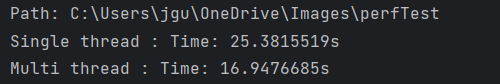
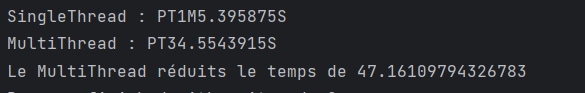
refacto code et add percent

diff --git a/src/Resizer.java b/src/Resizer.java
@@ -34,51 +34,46 @@ public class Resizer {
 
         this.files = f.listFiles(filter);
     }
-    public String singleThreadResize() {
-        createDir("singleThread");
+
+    private void resize(File file){
+        try {
+            BufferedImage image = ImageIO.read(file);
+            BufferedImage resizedImage = new BufferedImage(100, 100, BufferedImage.TYPE_INT_RGB);
+            Graphics2D g = resizedImage.createGraphics();
+            g.drawImage(image, 0, 0, 100, 100, null);
+            g.dispose();
+            ImageIO.write(resizedImage, "jpg", new File(path+"\\singleThread\\" + file.getName()));
+        } catch (IOException e) {
+            e.printStackTrace();
+        }
+    }
+
+    public Duration singleThreadResize() {
+        this.createDir("singleThread");
         Instant start = Instant.now();
         for (File file : this.files) {
-            try {
-                BufferedImage image = ImageIO.read(file);
-                BufferedImage resizedImage = new BufferedImage(100, 100, BufferedImage.TYPE_INT_RGB);
-                Graphics2D g = resizedImage.createGraphics();
-                g.drawImage(image, 0, 0, 100, 100, null);
-                g.dispose();
-                ImageIO.write(resizedImage, "jpg", new File(path+"\\singleThread\\" + file.getName()));
-            } catch (IOException e) {
-                e.printStackTrace();
-            }
+            resize(file);
         }
         Instant end = Instant.now();
-        removeDir("singleThread");
-        return String.valueOf(Duration.between(start, end));
+        this.removeDir("singleThread");
+        return Duration.between(start, end);
     }
-    public String multiThreadResize() {
-        createDir("multiThread");
+    public Duration multiThreadResize() {
+        this.createDir("multiThread");
         Instant start = Instant.now();
 
         List<File> filesList = List.of(this.files);
 
-        filesList.parallelStream().forEach(file -> {
-            try {
-                BufferedImage image = ImageIO.read(file);
-                BufferedImage resizedImage = new BufferedImage(100, 100, BufferedImage.TYPE_INT_RGB);
-                Graphics2D g = resizedImage.createGraphics();
-                g.drawImage(image, 0, 0, 100, 100, null);
-                g.dispose();
-                ImageIO.write(resizedImage, "jpg", new File(path+"\\multiThread\\" + file.getName()));
-            } catch (IOException e) {
-                e.printStackTrace();
-            }
-        });
+        filesList.parallelStream().forEach(this::resize);
 
         Instant end = Instant.now();
-        removeDir("multiThread");
-        return String.valueOf(Duration.between(start, end));
+        this.removeDir("multiThread");
+        return Duration.between(start, end);
     }
 
     private void createDir(String dirName){
         File theDir = new File(this.path+"\\"+dirName);
+        System.out.println("Create dir : " + theDir.getAbsolutePath());
         if (!theDir.exists()){
             theDir.mkdirs();
         }
@@ -86,6 +81,7 @@ public class Resizer {
 
     private void removeDir(String dirName){
         File theDir = new File(this.path+"\\"+dirName);
+        System.out.println("Remove dir : " + theDir.getAbsolutePath());
         if (theDir.exists()){
             theDir.delete();
         }

diff --git a/src/Main.java b/src/Main.java
@@ -9,43 +9,22 @@ public class Main {
         System.out.printf("Start \n");
         String[] filesTypes = {".jpg", ".png"};
         Resizer resizer = new Resizer("C:\\Users\\jgu\\OneDrive\\Images\\perfTest", filesTypes);
-        String resultSingleThread = resizer.singleThreadResize();
-        String resultMultiThread = resizer.multiThreadResize();
+        Duration resultSingleThread = resizer.singleThreadResize();
+        Duration resultMultiThread = resizer.multiThreadResize();
 
-        printDuration("SingleThread : ", resultSingleThread);
-        printDuration("MultiThread : ", resultMultiThread);
 
-        calculateDurationDifference(resultSingleThread, resultMultiThread);
+        System.out.println("SingleThread : "+ resultSingleThread.toString());
+        System.out.println("MultiThread : "+ resultMultiThread.toString());
+
+        double reduction = calculateDurationDifference(resultSingleThread, resultMultiThread);
+        System.out.printf("Le MultiThread réduits le temps de %s", reduction);
     }
 
-    // Méthode pour afficher la durée d'exécution de la méthode de redimensionnement
-    public static void printDuration(String context,String duration) {
-        String regex = "^PT(\\d+\\.\\d+)S$";
-        Pattern pattern = Pattern.compile(regex);
-        Matcher matcher = pattern.matcher(duration);
+    public static double calculateDurationDifference(Duration duration1, Duration duration2) {
+        // Calculate the difference between the two durations
+        Duration difference = duration1.minus(duration2);
 
-        if (matcher.matches()) {
-            double time = Double.parseDouble(matcher.group(1));
-            String output = String.format("Time: %,.7fs", time).replace(',', '.');
-            System.out.println(context+output);
-        } else {
-            System.out.println("Invalid duration string.");
-        }
-    }
-
-    public static void calculateDurationDifference(String bigDuration, String smallDuration) {
-        // Parse the big and small durations into seconds
-        double bigSeconds = Double.parseDouble(bigDuration.substring(2, bigDuration.length() - 1));
-        double smallSeconds = Double.parseDouble(smallDuration.substring(2, smallDuration.length() - 1));
-
-        // Calculate the difference in seconds
-        double difference = bigSeconds - smallSeconds;
-
-        // Calculate the percentage reduction
-        double percentageReduction = (difference / bigSeconds) * 100;
-
-        // Print the results
-        System.out.printf("Duration difference: %.7f seconds\n", difference);
-        System.out.printf("Percentage reduction: %.2f%%\n", percentageReduction);
+        // Return the percentage reduction as a double value
+        return (double) difference.toMillis() / duration1.toMillis() * 100.0;
     }
 }

diff --git a/readme.md b/readme.md
@@ -3,11 +3,11 @@
 Le but de ce projet est de comparer les performances singleThread vs multiThread dans le cas de la redimension d'images.
 Cette application java utilise la librairie Graphics2D pour redimensionner les images.
 
-On fournit en entrée un répertoire contenant des images (ce répertoire doit contenir un sous-répertoire "single thread" et un sous-répertoire "multithread" qui contiendront les images redimensionnées).
+On fournit en entrée un répertoire contenant des images.
 Les images sont converties en JPG et 100x100 pixels.
 
 Le multithreading est possible car le traitement d'une image ne nécessite pas le résultat du traitement de l'image précédente.
 Il est donc possible de traiter toutes les images en parallèle et gagner en temps de traitement
 
-Voici les résultats de benchmark effectué avec 200 images mixtes jpg et png
+Voici les résultats de benchmark effectué avec 200 images jpg
 ![Alt text](perf_screen.png)
